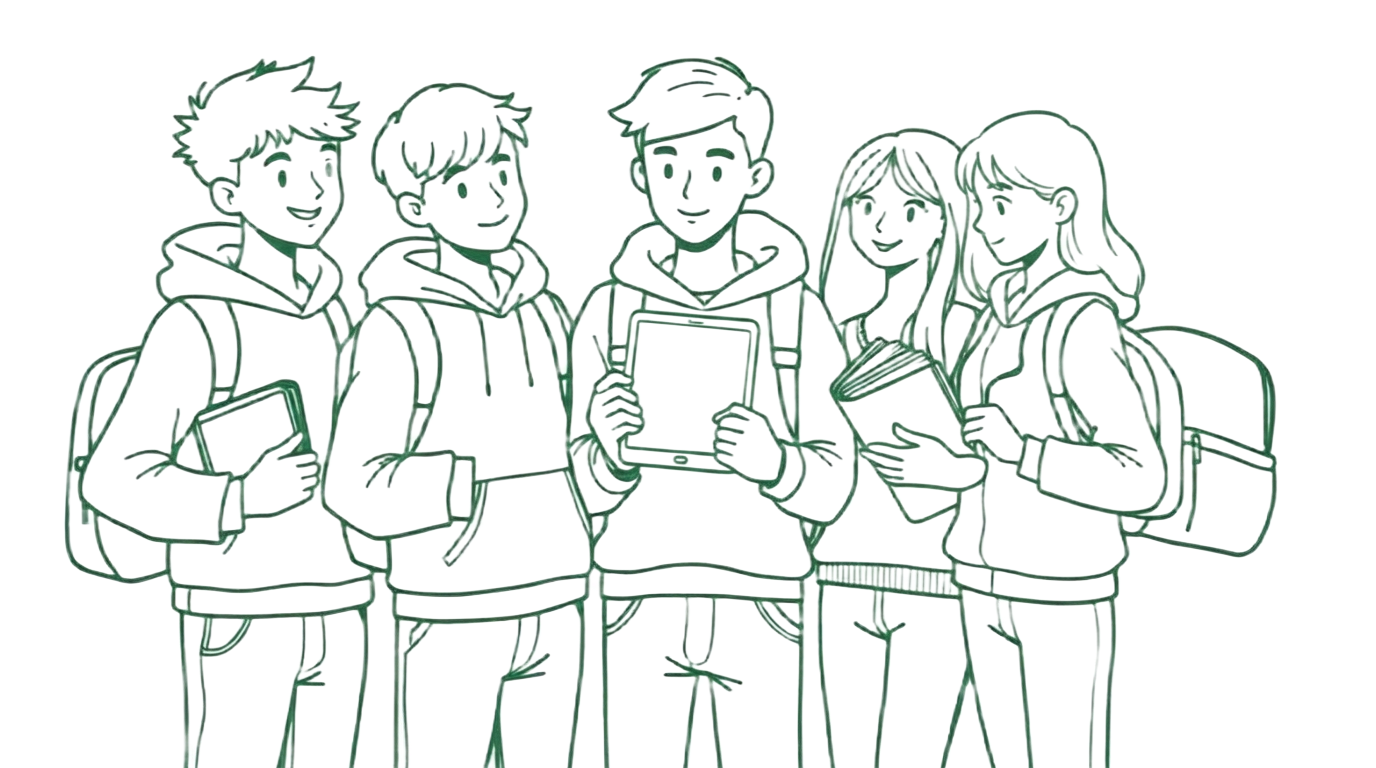
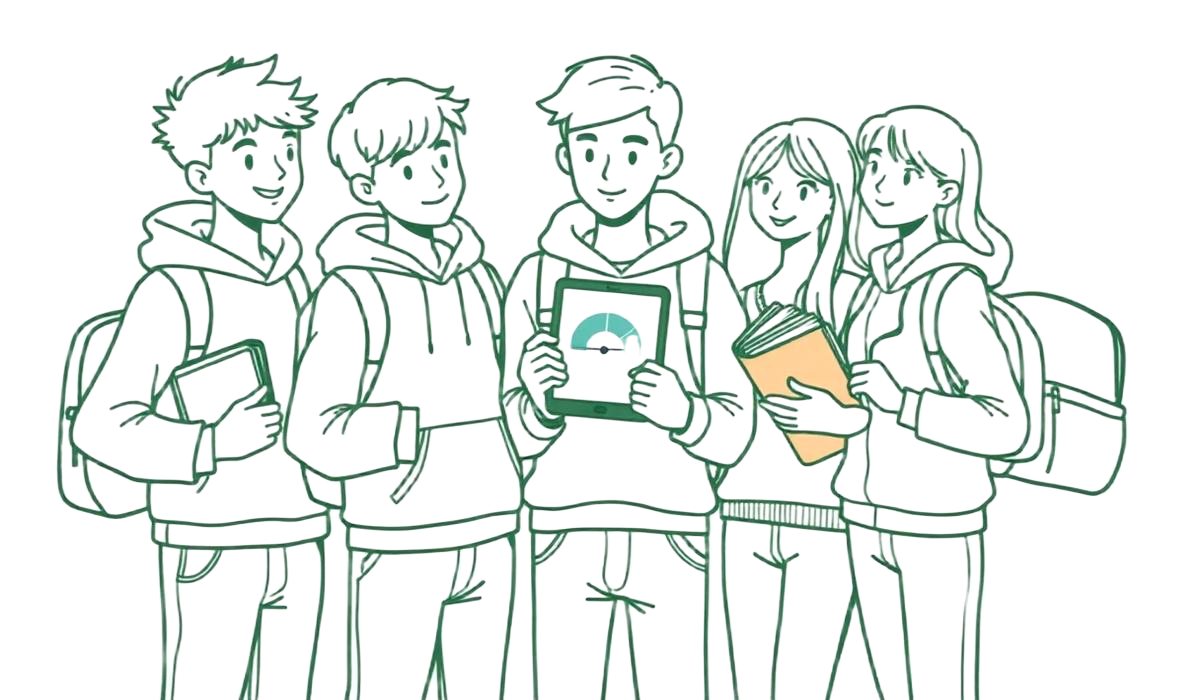
Reverted to commit 6623852da5030fe23e0af2d08fd29076f006f3cf

Changed region(s): [[0.0308, 0.06, 0.9558, 1.0], [0.185, 0.9, 0.2158, 1.0], [0.3083, 0.09, 0.3392, 0.12]]

diff --git a/src/routes/login.tsx b/src/routes/login.tsx
@@ -29,63 +29,56 @@ function LoginPage() {
   }
 
   return (
-    <SPShell className="pb-0">
-      <div className="flex h-[calc(100vh-1.5rem)] flex-col">
-        <div className="shrink-0 overflow-y-auto px-2 pt-8 pb-6">
-          <div className="text-center">
-            <h1 className="text-4xl font-extrabold tracking-tight text-primary">SmartPocket</h1>
-            <p className="mt-2 text-base font-semibold italic text-muted-foreground">
-              Track your spending. Save smarter.
-            </p>
-          </div>
-
-          <form onSubmit={submit} className="mt-10 flex flex-col gap-4">
-            <Field label="">
-              <TextInput
-                type="email"
-                placeholder="Email"
-                value={email}
-                onChange={(e) => setEmail(e.target.value)}
-                required
-                autoComplete="email"
-              />
-            </Field>
-            <Field label="">
-              <TextInput
-                type="password"
-                placeholder="Password"
-                value={password}
-                onChange={(e) => setPassword(e.target.value)}
-                required
-                minLength={4}
-                autoComplete={mode === "login" ? "current-password" : "new-password"}
-              />
-            </Field>
-            <div className="px-6 pt-4">
-              <PrimaryButton type="submit">{mode === "login" ? "Login" : "Sign Up"}</PrimaryButton>
-            </div>
-            <button
-              type="button"
-              className="text-center text-sm font-semibold text-primary/80 underline-offset-4 hover:underline"
-              onClick={() => setMode((m) => (m === "login" ? "signup" : "login"))}
-            >
-              {mode === "login" ? "New here? Create an account" : "Already have an account? Login"}
-            </button>
-          </form>
+    <SPShell>
+      <div className="relative flex min-h-[calc(100vh-3rem)] flex-col pb-0 pt-8">
+        <div className="text-center">
+          <h1 className="text-4xl font-extrabold tracking-tight text-primary">SmartPocket</h1>
+          <p className="mt-2 text-base font-semibold italic text-muted-foreground">
+            Track your spending. Save smarter.
+          </p>
         </div>
 
-        <div
-          className="relative min-h-0 flex-1 bg-white"
-          style={{
-            width: "100vw",
-            marginLeft: "calc(-50vw + 50%)",
-            marginRight: "calc(-50vw + 50%)",
-          }}
-        >
+        <form onSubmit={submit} className="mt-10 flex flex-col gap-4">
+          <Field label="">
+            <TextInput
+              type="email"
+              placeholder="Email"
+              value={email}
+              onChange={(e) => setEmail(e.target.value)}
+              required
+              autoComplete="email"
+            />
+          </Field>
+          <Field label="">
+            <TextInput
+              type="password"
+              placeholder="Password"
+              value={password}
+              onChange={(e) => setPassword(e.target.value)}
+              required
+              minLength={4}
+              autoComplete={mode === "login" ? "current-password" : "new-password"}
+            />
+          </Field>
+          <div className="px-6 pt-4">
+            <PrimaryButton type="submit">{mode === "login" ? "Login" : "Sign Up"}</PrimaryButton>
+          </div>
+          <button
+            type="button"
+            className="text-center text-sm font-semibold text-primary/80 underline-offset-4 hover:underline"
+            onClick={() => setMode((m) => (m === "login" ? "signup" : "login"))}
+          >
+            {mode === "login" ? "New here? Create an account" : "Already have an account? Login"}
+          </button>
+        </form>
+
+        <div className="mt-auto -mx-6 pt-8">
           <img
             src={studentsIllustration}
             alt="Students using SmartPocket"
-            className="pointer-events-none absolute inset-0 h-full w-full select-none object-cover object-top"
+            width={1200}
+            height={700}
+            className="w-full select-none object-contain"
             draggable={false}
           />
         </div>

diff --git a/src/components/sp-shell.tsx b/src/components/sp-shell.tsx
@@ -1,7 +1,6 @@
 import type { ReactNode } from "react";
 import { Link, useNavigate } from "@tanstack/react-router";
 import { ArrowLeft, User2 } from "lucide-react";
-import { cn } from "@/lib/utils";
 
 export function SPShell({
   children,
@@ -9,19 +8,17 @@ export function SPShell({
   showBack = false,
   showProfile = false,
   onProfile,
-  className = "",
 }: {
   children: ReactNode;
   title?: string;
   showBack?: boolean;
   showProfile?: boolean;
   onProfile?: () => void;
-  className?: string;
 }) {
   const navigate = useNavigate();
   return (
     <div className="min-h-screen bg-background">
-      <div className={cn("mx-auto flex min-h-screen max-w-md flex-col px-6 pt-6", className || "pb-24")}>
+      <div className="mx-auto flex min-h-screen max-w-md flex-col px-6 pb-24 pt-6">
         {(title || showBack || showProfile) && (
           <header className="mb-4 flex items-center justify-between gap-4">
             <div className="flex min-w-0 items-center gap-3">
